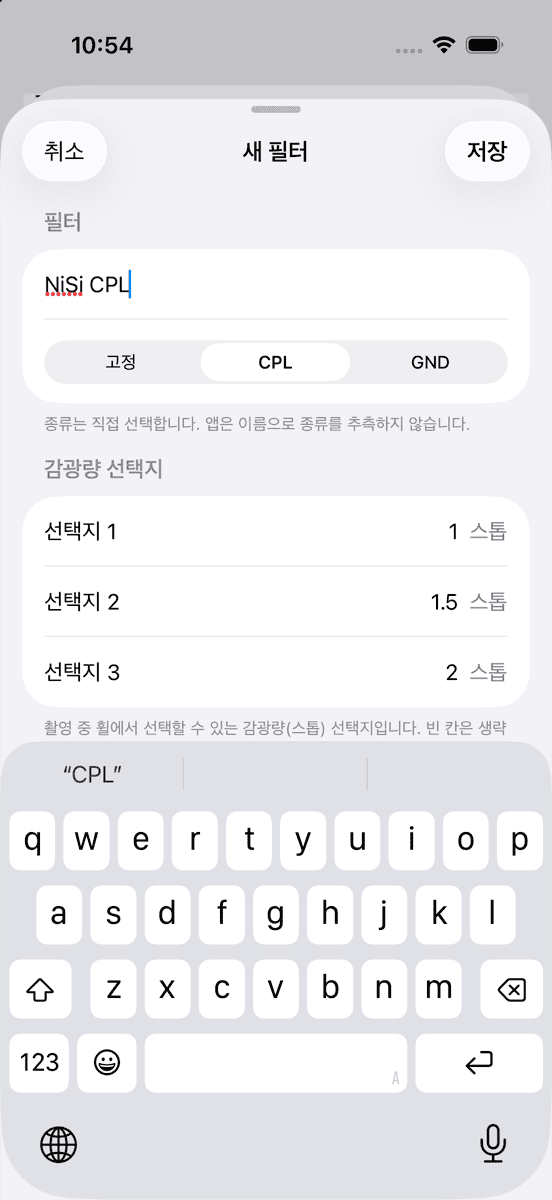
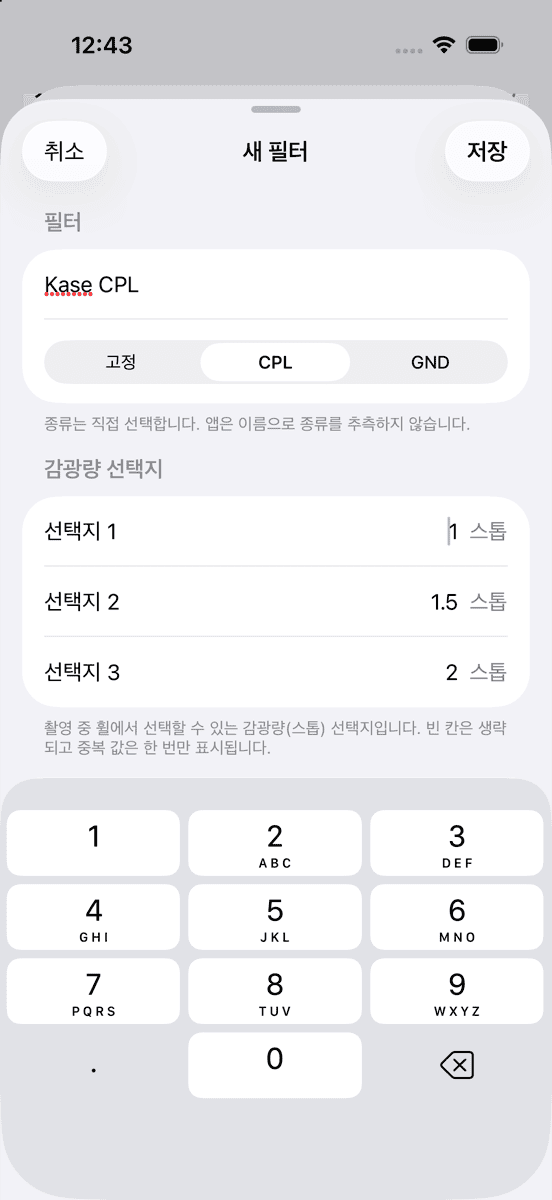
Reshoot the Android captures against the iOS seeds
The comparison review found several pairs that shared a situation but
not a seed, and two that captured the wrong moment entirely. Both
platforms were re-driven.

Android: eleven scenarios rebuilt on the same Filter Set, the same
items, the same base shutter and the same stack as the iOS references,
so the totals now read 16 and 19 rather than 10 and 13, the item names
match, and the 30-stop composition is the same 17 + 10 + 3 in the same
column order. iOS: the CPL frame retaken with a choice field focused
instead of the editor's autofocused name field, and the fallback frame
retaken inside the status region's linger window instead of after it.

The frames also carry the two corrections landed since the first pass.
The status region's leading content now starts at the card's leading
content inset — 63 px where it used to start at 430 — and `GND FULL`
renders complete at three wheels and at four, the narrowest column the
layout reaches.

Two things the reshoot itself turned up, both since fixed: the timer
card stated a 29.6-stop total as `29 2/3` while the shooting screen
said `29.6`, and the CPL choice field raises a decimal pad on both
platforms but Android's IME adds keys iOS's does not, which is the
platform's choice rather than the app's.

The Android frames come from two commits, because one of those fixes
landed mid-pass. The README says which frames came from which build
rather than implying one; the timer-card frames were reshot against the
[…]

diff --git a/docs/review-artifacts/PTIMER-221/android-ios/COMPARISON.md b/docs/review-artifacts/PTIMER-221/android-ios/COMPARISON.md
@@ -1,7 +1,7 @@
 # PTIMER-221 iOS / Android comparison matrix
 
 iOS `main@64565f73` on iPhone 17 (`9144ED16`), light, ko-KR.
-Android `feature/PTIMER-221-android@79b339c9` on `emulator-5554`
+Android `feature/PTIMER-221-android` at `496a4ec4` / `120bb559` on `emulator-5554`
 (Pixel_10, API 37), dark (hard-coded), ko-KR.
 Provenance and method: see [README.md](README.md).
 
@@ -15,7 +15,10 @@ Material or the platform requires, with no capability lost),
 seeded state and the same interaction phase on both platforms, and may be
 read as visual/transition parity evidence. A row marked `DIFFERENT SEED`
 compares the *behavior* only; its images must not be read as visual
-parity. Rows being reseeded are marked `RESEED PENDING`.
+parity. Every row that needed reseeding has been reseeded; nothing is
+left pending. Rows still marked `DIFFERENT SEED` are ones where the
+claim is behavioral and identical seeding would add nothing — they say
+so in place.
 
 | scenario | iOS observed behavior | Android observed behavior | contract ID | classification / action | evidence |
 | --- | --- | --- | --- | --- | --- |
@@ -25,27 +28,27 @@ parity. Rows being reseeded are marked `RESEED PENDING`.
 | 04 edit-mode controls | `완료` leading dismisses; `편집` ⇄ `편집 완료` trailing; `＋` last. Rows get a drag handle and a red delete. | Same three labels and roles. Rows get three explicit icon buttons, each 48x48 dp: `위로 이동`, `아래로 이동`, `삭제`. | FILTER-SET-001 | **Equivalent platform presentation.** Material reorder buttons replace the iOS drag handle; the capability is the same and the buttons are individually reachable by assistive technology. SAME SEED. | `04-edit-mode-controls/` |
 | 05 editor, Fixed ND1000 | `고정` kind, value `1000`, ND notation, conversion `= 10 스톱`. Notation segment inline right of the value. Presented as a sheet. | Same strings verbatim, including the conversion `= 10 스톱` and both footers. Notation segment is a separate full-width row under the value. Presented as a full screen. | FILTER-ITEM-002, FILTER-ITEM-003 | **Equivalent platform presentation.** ND1000 snaps to the ladder's exact 10 stops on both, not `log2(1000)`. SAME SEED. | `05-editor-fixed-nd1000/` |
 | 06 editor, GND OD 0.9 | Section retitled `전체 농도`; `= 3 스톱`; `계산 모드` section with the Record-only default. Second new item opened with ND remembered. | Identical section title, identical conversion, identical modes copy verbatim. Second new item opened with ND remembered (`android-b`). | FILTER-GND-001, FILTER-ITEM-007 | **Same.** SAME SEED. | `06-editor-gnd-od/` |
-| 07 editor, CPL choices | Three choice rows prefilled `1`, `1.5`, `2`; footer about blanks and duplicates. | Same prefills and the same footer verbatim. Each field carries desc `감광량 선택지 N`. | FILTER-CPL-001, FILTER-CPL-002 | **Same** for the visible content. The keypad claim is now carried by its own frames — the first pass captured the autofocused *name* field's QWERTY on both platforms, which evidenced nothing. RESEED PENDING for the focused-choice frame. | `07-editor-cpl/` |
-| 08 editor, CPL invalid | Red inline message under the offending row, inside the card: `0.1~9.9 범위에서 소수점 한 자리까지 입력하세요.`; 저장 greyed; field not outlined. | Red inline message in the same place: `소수 한 자리까지 0.1~9.9 사이 값을 사용하세요.`; 저장 greyed; the field's outline also turns error-red. | FILTER-CPL-002, FILTER-A11Y-003 | **Android action: align the wording.** Same rule, same placement, avoidable wording difference — the Android ko/en strings are being changed to iOS's. The extra error outline is Material and stays. SAME SEED. | `08-editor-cpl-invalid/` |
-| 09 set detail, three items | Rows `Big Stopper` / `고정 · ND1000 · 10 스톱`, `NiSi GND` / `GND · OD 0.9 · 3 스톱`, `NiSi CPL` / `CPL · 1 / 1.5 / 2 스톱`; registration order; disclosure chevron per row; `<` back. | Same subtitle grammar verbatim, registration order preserved — but the items are named `Big Stopper`, `Soft GND`, `CPL`. No chevron; X (`닫기`) instead of `<`. | FILTER-ITEM-001, FILTER-ITEM-004 | **Equivalent platform presentation** for the chevron and the dismiss glyph. DIFFERENT SEED — the item names differ, so these two images are not visual parity evidence. RESEED PENDING. | `09-set-detail-three-items/` |
+| 07 editor, CPL choices | Three choice rows prefilled `1`, `1.5`, `2`; footer about blanks and duplicates. Focusing a choice raises `.decimalPad`: digits, `.`, `⌫`, nothing else. Tapping the kind segment does not move focus. | Same prefills and the same footer verbatim; each field carries desc `감광량 선택지 N`. Focusing a choice raises a decimal pad too — the field declares `KeyboardType.Decimal` and the IME reports `inputType=0x2002` (`numberDecimal`) — but Gboard adds `,`, `−`, a space bar and a `✓` key. Tapping the kind segment does not move focus, as on iOS. | FILTER-CPL-001, FILTER-CPL-002, FILTER-CPL-003 | **Equivalent platform presentation.** The app asks for the same thing on both; the extra keys are the platform IME's, not the app's. Recorded consequence: those characters can reach the Android field, so Android's validation carries load that iOS's keyboard removes at source — and row 08 shows that validation working. SAME SEED. | `07-editor-cpl/` |
+| 08 editor, CPL invalid | Red inline message under the offending row, inside the card: `0.1~9.9 범위에서 소수점 한 자리까지 입력하세요.`; 저장 greyed; field not outlined. | Red inline message in the same place: `소수 한 자리까지 0.1~9.9 사이 값을 사용하세요.`; 저장 greyed; the field's outline also turns error-red. | FILTER-CPL-002, FILTER-A11Y-003 | **Android action taken (`496a4ec4`).** Same rule, same placement, avoidable wording difference: the English was already identical on both, so the Korean was changed to the iOS phrasing. The image still shows the pre-change wording; the string is `filter_cpl_field_error` in `values-ko/strings.xml`. The extra error outline is Material and stays. SAME SEED. | `08-editor-cpl-invalid/` |
+| 09 set detail, three items | Rows `Big Stopper` / `고정 · ND1000 · 10 스톱`, `NiSi GND` / `GND · OD 0.9 · 3 스톱`, `NiSi CPL` / `CPL · 1 / 1.5 / 2 스톱`; registration order; disclosure chevron per row; `<` back. | Same subtitle grammar verbatim, registration order preserved — but the items are named `Big Stopper`, `Soft GND`, `CPL`. No chevron; X (`닫기`) instead of `<`. | FILTER-ITEM-001, FILTER-ITEM-004 | **Equivalent platform presentation** for the chevron and the dismiss glyph. SAME SEED after reshoot: Android now shows the same three items, same order, same subtitles (`고정 · ND1000 · 10 스톱`, `GND · OD 0.9 · 3 스톱`, `CPL · 1 / 1.5 / 2 스톱`). | `09-set-detail-three-items/` |
 | 10 add enters settled order | New Empty wheel appended at the **end**: `[NiSi 10][Std 6][Std 0][NiSi EMPTY]`. It moved into the NiSi group only after it committed an item. | New Empty wheel at **index 2, contiguous with the NiSi group, in the frame immediately after the add**: `필터 1/4 NiSi(10)`, `2/4 NiSi(EMPTY)`, `3/4 Standard(6)`, `4/4 Standard(0)`; total unchanged. | FILTER-STACK-005 | **iOS defect.** Adjudicated by the spec owner: a Plus add is accepted only with no moving wheel or pending commit, so the resulting stack must already satisfy source contiguity and subtotal order. Android is correct; iOS append-until-next-settle goes to a separate iOS Code follow-up. SAME SEED. | `10-add-immediate-order/` |
 | 11 idle cleanup of an Empty wheel | Unmounted Empty Filter Set wheel silently removed after ~4 s. | Same, and a `Standard 0` wheel is cleanable on the same interval — so the literal `[NiSi 10][Std 6][Std 0]` stack decays to two wheels. | FILTER-STACK-006 | **Same.** FILTER-STACK-006 puts Standard 0 and Filter Set Empty under the same idle rule, so both platforms shedding them is the contract; the iOS frame simply caught the stack before its timer fired. SAME SEED. | `11-empty-wheel-idle-cleanup/` |
 | 12 order after a committed change | The wheel added at the end animated into its source group once it committed a value. | No post-commit move was needed — the wheel was already in its group. Reordering itself was observed separately: at NiSi 10 / Standard 6 the row read `[NiSi][Standard]`, and at NiSi 2 / Standard 10 it read `[Standard][NiSi]`, with the leading summary flipping to match. | FILTER-STACK-005 | **Consequence of scenario 10**, same classification. Both platforms end in the same settled order; only the moment of reordering differs. DIFFERENT SEED. | `12-order-after-change/` |
-| 13 sighted fallback | Commits the nearest selectable row the gesture actually traversed, not the previous selection. Mid-drag the status previews the unavailable candidate including its total (`합계 26 스톱`). | Identical: mid-drag leading `Big Stopper · ND1000 · 10 스톱` with `합계 26 스톱`, then on release it committed the traversed GND row, header back to `● GND REC`, total `합계 16 스톱`, no rejection raised. | FILTER-STACK-004 | **Same behavior.** The committed iOS frame was taken after the status linger expired, so it shows the idle summary while Android shows the settled detail — not comparable as images. RESEED PENDING (iOS retake within the linger window). | `13-fallback-commit/` |
+| 13 sighted fallback | Commits the nearest selectable row the gesture actually traversed. ~0.9 s after release the status region still shows the **candidate** the gesture settled on — `Big Stopper · ND1000 · 10 스톱` / `합계 24 스톱` — while the wheel beneath it already reads `GND REC` and the committed total is 14. The idle summary appears after the 1.5 s linger. | Same fallback: the traversed GND row is committed. But the status flips to the **committed** row the moment the fallback lands (+718 ms) — `Soft GND · OD 0.9 · 기록만 · 0 스톱` / `합계 14 스톱` — and that is what lingers. The candidate detail exists only while the wheel is still physically moving (finger down, and ~100 ms of settle). | FILTER-STACK-004, FILTER-STACK-007 | **Unresolved — needs a disposition.** FILTER-STACK-007 says the status text and the centered row "shall not mix a passing candidate with the previously committed candidate"; once the fallback has landed and the wheel shows `GND REC`, iOS's frozen `Big Stopper` detail appears to be exactly that mix, which would make Android correct and iOS defective. The counter-reading is that the frozen window is still part of "inertial settling". Not changing Android either way. SAME SEED, timestamped burst on both. | `13-fallback-commit/` |
 | 14 refusal with no fallback | Wheel stays put; leading turns orange with `이 카메라에 이미 장착됨`; trailing total unchanged. | Same behavior and the **same string verbatim**; wheel snapped back to `GND REC`; total unchanged. Colour is the Material error role rather than orange. | FILTER-STACK-004 | **Equivalent platform presentation** for the colour role. The appearances differ (iOS light, Android dark), so no hue comparison is claimed. SAME SEED. | `14-rejection-no-fallback/` |
-| 15 status region, idle | One row. Leading `● NiSi kit ×2 · Standard` at x 27.67 pt, trailing `합계 16 스톱` ending at x 374.00 pt — both on the **card content insets** (card edges are 16.0 / 385.67 pt), on a shared first-text baseline. | One row, same y-band, Total's right edge exactly on the trailing content inset (1017 px = 387.4 dp). **Leading starts at 430 px = 163.8 dp — the left edge of the first filter wheel, not the card's 24.0 dp leading inset**, because `FilterStatusRegion` fills only the ND subcolumn. | FILTER-STACK-008 | **Android defect, correction in progress.** The region is being given the full card width below the complete Base Shutter + wheel row, with the layout tests strengthened to compare both nodes against the card bounds and to assert the wheels do not move. RESEED PENDING (recapture after the fix). | `15-status-idle/` |
-| 16 status region, moving | Leading `Big Stopper · ND1000 · 10 스톱`, trailing `합계 16 스톱`; same extents as idle; the held detail switches without the idle crossfade. | Leading identical; Total `합계 26 스톱`. Width behavior proven: with `합계 16.6 스톱` the Total grew and the leading shrank; only the leading yields. | FILTER-STACK-007, FILTER-STACK-008 | **Same** for the yield rule. Same Android alignment defect as row 15. DIFFERENT SEED — the two frames preview different candidates (16 vs 26 stops). RESEED PENDING. | `16-status-moving/` |
-| 17 status region, rejection | Orange leading reason, unchanged Total, one row, nothing reflows. | Same string, same single row, same unchanged Total; Material error colour. | FILTER-STACK-004, FILTER-STACK-008 | Same as rows 14 and 15. RESEED PENDING (alignment fix). | `17-status-rejection/` |
-| 18 / 19 GND mode does not move the wheel | `● GND REC` ⇄ `● GND FULL` at the same position; total 16 → 19. | Same rule: the wheel stayed at identical bounds in both modes, total 10 → 13. **But at three wheels the header renders `● GND` — `FULL` is clipped away with no ellipsis**, while `GND REC` still fits. | FILTER-STACK-005, **FILTER-STACK-007** | **Android defect, correction in progress.** FILTER-STACK-007 requires the persistent label to communicate `REC` or `FULL`; silent clipping removes the only cue distinguishing the two modes exactly when the column narrows. The no-move rule itself is correct on both. DIFFERENT SEED (totals 16/19 vs 10/13). RESEED PENDING. | `18-gnd-record-only/`, `19-gnd-full/` |
+| 15 status region, idle | One row. Leading `● NiSi kit ×2 · Standard` at x 27.67 pt, trailing `합계 16 스톱` ending at x 374.00 pt — both on the **card content insets** (card edges are 16.0 / 385.67 pt), on a shared first-text baseline. | One row, same y-band, Total's right edge exactly on the trailing content inset (1017 px = 387.4 dp). **Leading starts at 430 px = 163.8 dp — the left edge of the first filter wheel, not the card's 24.0 dp leading inset**, because `FilterStatusRegion` fills only the ND subcolumn. | FILTER-STACK-008 | **Android defect, FIXED in `1ae2fd2c`.** The region now spans the card's content width below the complete Base Shutter + wheel row. Remeasured: leading **63 px = 24.00 dp**, the card's leading content inset, and Total still **1017 px = 387.43 dp**, its trailing inset — a 139.81 dp gain of leading width, in every status state. SAME SEED (total 16 on both). | `15-status-idle/` |
+| 16 status region, moving | Leading `Big Stopper · ND1000 · 10 스톱`, trailing `합계 16 스톱`; same extents as idle; the held detail switches without the idle crossfade. | Leading identical; Total `합계 26 스톱`. Width behavior proven: with `합계 16.6 스톱` the Total grew and the leading shrank; only the leading yields. | FILTER-STACK-007, FILTER-STACK-008 | **Same.** SAME SEED after reshoot: Android now holds the same candidate (its own committed row), so its total also stays `합계 16 스톱`, and its leading edge sits on the card inset like iOS's. | `16-status-moving/` |
+| 17 status region, rejection | Orange leading reason, unchanged Total, one row, nothing reflows. | Same string, same single row, same unchanged Total; Material error colour. | FILTER-STACK-004, FILTER-STACK-008 | Same as rows 14 and 15; reshot after the alignment fix, leading at 24.00 dp, total `합계 16 스톱` unchanged. SAME SEED. | `17-status-rejection/` |
+| 18 / 19 GND mode does not move the wheel | `● GND REC` ⇄ `● GND FULL` at the same position; total 16 → 19. | Same rule: the wheel stayed at identical bounds in both modes, total 10 → 13. **But at three wheels the header renders `● GND` — `FULL` is clipped away with no ellipsis**, while `GND REC` still fits. | FILTER-STACK-005, **FILTER-STACK-007** | **Android defect, FIXED in `23761f8e`.** The label was wrapping at the space in `GND FULL` and keeping only the first line. It now shrinks to fit instead, and renders complete at three wheels (61.7 dp column) and at four (52.95 dp, the narrowest the layout reaches — `19-gnd-full/android-b.png`). The no-move rule was always correct on both: the wheel's bounds are identical across the mode switch. SAME SEED, totals now 16/19 on both. | `18-gnd-record-only/`, `19-gnd-full/` |
 | 20 Empty vs Standard zero | Both read `0`. Standard: header `ND`, blue rail, no source dot. Filter Set: header `● EMPTY`, cyan dot, neutral-grey rail. | Same pattern; the source dot is the set's own colour (purple here). | FILTER-STACK-007 | **Same.** The dot carries the set colour by contract, so a different set colour is not a difference. SAME SEED. | `20-empty-vs-standard-zero/` |
-| 21 at 30 stops, source with no usable row | Total `합계 30 스톱 · 최대`, Plus dimmed, add refused with `남은 예산에 맞는 Standard 값이 없음`, remembered source unchanged. | Total `합계 30 스톱 · 최대` verbatim; the refusal string verbatim identical; no wheel created; total unchanged; remembered source unchanged. The Plus is not dimmed — its tint tracks the source, and the browse simply never settles on Standard. | FILTER-PLUS-005 | **Equivalent platform presentation** for how the refusal is surfaced; the contract outcome (refuse, with a reason, without moving the remembered source) is identical. DIFFERENT SEED — the 30-stop compositions differ. RESEED PENDING. | `21-cap-no-usable-row/` |
+| 21 at 30 stops, source with no usable row | Total `합계 30 스톱 · 최대`, Plus dimmed, add refused with `남은 예산에 맞는 Standard 값이 없음`, remembered source unchanged. | Total `합계 30 스톱 · 최대` verbatim; the refusal string verbatim identical; no wheel created; total unchanged; remembered source unchanged. The Plus is not dimmed — its tint tracks the source, and the browse simply never settles on Standard. | FILTER-PLUS-005 | **Equivalent platform presentation** for how the refusal is surfaced; the contract outcome — refuse, with a reason, without moving the remembered source — is identical, and the reason string is verbatim the same. SAME SEED after reshoot: both are 17 + 10 + 3 = 30 in the same column order. | `21-cap-no-usable-row/` |
 | 22 at 30 stops, Record-only still addable | **Not reached.** iOS refuses every add once the total is 30, and the state could not be built inside the 4 s idle interval. | **Allowed.** At `합계 30 스톱 · 최대` with two wheels and an unmounted `Soft GND`, `＋` created a third `● EMPTY` wheel: present at +0.3 s and +3.0 s, gone at +4.5 s — removed by the ordinary idle interval, not immediately. Total unchanged throughout. | FILTER-PLUS-005, FILTER-STACK-006 | **Android correct.** FILTER-PLUS-005 requires a Record-only item to stay addable at a 30-stop total, and FILTER-STACK-006 gives the resulting Empty wheel the normal idle interval. **Android-only evidence — not paired parity.** If iOS refuses this exact case it is a second iOS defect; the iOS pass could not reach the state to confirm. | `22-cap-record-only-addable/` |
 | 23 camera switch | Camera 2 has its own stack and its own remembered Plus source; swiping back restores camera 1 exactly. | Camera 2 opened Standard-only and its `＋` added Standard while camera 1 remembered NiSi; swiping back restored camera 1 byte-identical. | FILTER-PERSIST-002, FILTER-PLUS-004 | **Same.** DIFFERENT SEED (different stacks) but the behavior claim is per-camera independence, which both show. | `23-camera-switch/` |
 | 24 relaunch | Identical stack, order, GND mode, total, Plus source. Nothing re-sorted or reset. | Same after `am force-stop` and relaunch. | FILTER-PERSIST-001, FILTER-PERSIST-002 | **Same.** DIFFERENT SEED. | `24-after-relaunch/` |
-| 25 timer reference | Primary `기본 1/30s · 29.6 스톱`; secondary `Standard 16.6 스톱 · NiSi kit: Big Stopper ND1000 + NiSi GND OD 0.9 (전체 값 적용)`. Sheet close control top-right. | Secondary grouped the same way: `NiSi: Big Stopper ND1000 + Soft GND OD 0.9 (기록만)`. Primary `기본 5s · 10 stops` — **the noun `stops` stays English inside a Korean line.** Close control top-left. | FILTER-PERSIST-003, FILTER-A11Y-003 | Reference-line grammar is **the same**; close-control side is **equivalent platform presentation** (Material puts dismissal leading). The untranslated `stops` comes from `TimerBasisPresenter` using a locale-independent formatter — **provenance under investigation; if it predates this branch it is reported, not fixed here.** DIFFERENT SEED. RESEED PENDING. | `25-timer-reference/` |
-| 26 rename then delete the set behind a running timer | Camera drops the wheels, Plus falls back to Standard, and the timer entry is byte-identical including the **pre-rename** set name. Delete dialog names the targeted set. | Identical: the live stack and status followed the rename, while the running timer still read `NiSi: Big Stopper ND1000 + Soft GND OD 0.9 (기록만)`; after delete the stack collapsed to Standard and the timer entry was still byte-identical, and stayed so after cancelling into 기록. Dialog body identical except the camera name. | FILTER-PERSIST-003 | **Same — the contract's immutability guarantee holds on both.** The dialog body leaks the default camera name as the English `Camera 1` in a Korean build (iOS `카메라 1`); provenance under investigation. DIFFERENT SEED. RESEED PENDING. | `26-timer-reference-after-delete/` |
+| 25 timer reference | Primary `기본 1/30s · 29.6 스톱`; secondary `Standard 16.6 스톱 · NiSi kit: Big Stopper ND1000 + NiSi GND OD 0.9 (전체 값 적용)`. Sheet close control top-right. | Secondary grouped the same way: `NiSi: Big Stopper ND1000 + Soft GND OD 0.9 (기록만)`. Primary `기본 5s · 10 stops` — **the noun `stops` stays English inside a Korean line.** Close control top-left. | FILTER-PERSIST-003, FILTER-A11Y-003 | **Two Android defects found here, both FIXED.** The English `stops` in a Korean line came from a core formatter with no resources (`69702bf4`). Then the total itself read `기본 1/30 · 29 2/3 스톱` — the ladder's reserved third-stop path misstating 29.6 — while Android's own shooting screen said `합계 29.6 스톱`; a mixed stack's canonical total is a plain decimal (`120bb559`). Both surfaces now read `29.6 스톱`, and so does the timer card in OD and ND notation, since a mixed stack's total does not follow the global notation. Remaining: iOS writes the base shutter as `1/30s`, Android as `1/30`, and Android truncates the reference line to one line where iOS wraps to two — **equivalent platform presentation** and **unresolved** respectively. Close-control side is Material. SAME SEED. | `25-timer-reference/` |
+| 26 rename then delete the set behind a running timer | Camera drops the wheels, Plus falls back to Standard, and the timer entry is byte-identical including the **pre-rename** set name. Delete dialog names the targeted set. | Identical: the live stack and status followed the rename, while the running timer still read `NiSi: Big Stopper ND1000 + Soft GND OD 0.9 (기록만)`; after delete the stack collapsed to Standard and the timer entry was still byte-identical, and stayed so after cancelling into 기록. Dialog body identical except the camera name. | FILTER-PERSIST-003 | **Same — the contract's immutability guarantee holds on both.** SAME SEED after reshoot, and all four frames now come from one seeding and one build, so the total reads `29.6` unchanged across rename and delete: nothing in the sequence suggests either operation touched it. The dialog body still leaks the default camera name as the English `Camera 1` in a Korean build (iOS `카메라 1`) — **pre-existing, not this branch**: `CameraSlotId.defaultDisplayName` hardcodes it at `4914d315` (2026-06-25), an ancestor of the baseline, and the core module has no resources. What is new is the exposure: a PTIMER-221 string interpolates that English name into Korean prose. Reported, not fixed here. | `26-timer-reference-after-delete/` |
 | 27 wheel accessibility | One adjustable element per wheel. Stable label `필터 %lld/%lld, %@`; separate value `<item>, <type/mode>, <contribution>, 합계 <T>`. No app-authored hint. | Same split: `contentDescription` = `필터 1/2, NiSi`; `stateDescription` = `<item>, <type[, mode]>, <N 스톱>[, <refusal>], 합계 <T> 스톱`; role adjustable (`ProgressBarRangeInfo`). | FILTER-A11Y-001 | **Same structurally.** Neither platform's value was *heard* — iOS read from source, Android's `stateDescription` is not serialised by `uiautomator` and was read from source. Stated as a limitation, not as verified speech. | `27-a11y-wheel/` |
-| 28 status region accessibility | Leading text and Total are two separate elements, so Total is reachable directly rather than behind the summary. | Same: two sibling nodes, the leading one carrying the **complete untruncated** text as its content description while the visible text truncates. | FILTER-A11Y-005, FILTER-STACK-008 | **Same.** Affected by the row-15 alignment fix. RESEED PENDING. | `28-a11y-status/` |
+| 28 status region accessibility | Leading text and Total are two separate elements, so Total is reachable directly rather than behind the summary. | Same: two sibling nodes, the leading one carrying the **complete untruncated** text as its content description while the visible text truncates. | FILTER-A11Y-005, FILTER-STACK-008 | **Same.** Reshot after the alignment fix: two sibling nodes at 63-841 px and 857-1017 px, the leading one carrying the complete untruncated text as its content description while the visible text truncates. SAME SEED. | `28-a11y-status/` |
 
 ## Differences not tied to one scenario
 
@@ -53,4 +56,5 @@ parity. Rows being reseeded are marked `RESEED PENDING`.
 | --- | --- | --- |
 | Android renders dark unconditionally (`PTimerTheme(darkTheme = true, dynamicColor = false)` in `MainActivity`), and the system night-mode setting does not change it. | — | Out of PTIMER-221 scope; recorded so that no colour row in this matrix is read as a measured hue comparison. |
 | Android wheel drags are fling-sensitive: swipes shorter than ~700 ms over one row height frequently snap back or overshoot. | FILTER-STACK-004 | **Unresolved** — observed with injected input, which is not a faithful model of a finger. Needs a human pass on a device before it can be called a defect. |
-| The Android colour swatches and the management entry appeared to lose their accessibility state in a `uiautomator` dump. | FILTER-A11Y-001, FILTER-A11Y-002 | Almost certainly an artifact of `uiautomator` dumping Compose's unmerged semantics tree — the source sets both. Being verified with merged-tree instrumented assertions; only a failing assertion will produce a source change. |
+| The Android colour swatches and the management entry appeared to lose their accessibility state in a `uiautomator` dump. | FILTER-A11Y-001, FILTER-A11Y-002 | **Artifact, confirmed.** `uiautomator` dumps Compose's unmerged semantics tree. On the merged tree one node carries the management description, holds the click action, and is 48 x 48 dp; the selected swatch reports `Selected == true` and the others `false`. Asserted in `FilterMergedSemanticsTest` (`d3695e2c`); no source change was needed. |
+| The Android timer card renders durations as `36m 24s` where iOS renders `36:25`, from the same `2185s`. | — | Pre-existing timer formatting, outside PTIMER-221. Recorded only. |

diff --git a/docs/review-artifacts/PTIMER-221/android-ios/README.md b/docs/review-artifacts/PTIMER-221/android-ios/README.md
@@ -20,13 +20,47 @@ evidence at all.
 
 | | iOS | Android |
 | --- | --- | --- |
-| build | `main` at `64565f7394fb6d3b00be3655e1b6fb84851c5967` (the merge of the iOS PTIMER-221 PR; also the baseline this Code PR is rebased onto) | `feature/PTIMER-221-android` at `79b339c9` |
+| build | `main` at `64565f7394fb6d3b00be3655e1b6fb84851c5967` (the merge of the iOS PTIMER-221 PR; also the baseline this Code PR is rebased onto) | `feature/PTIMER-221-android` — see the per-frame build table below |
 | device | iPhone 17 simulator, UDID `9144ED16-488D-41F0-B736-3E0564BC6874` | `emulator-5554`, Pixel_10 AVD, API 37 |
 | screen | 402 x 874 pt, 3x (1206 x 2622 px) | 411.43 x 923.43 dp, density 420 (2.625 px/dp, 1080 x 2424 px) |
 | appearance | light | dark — the app hard-codes `PTimerTheme(darkTheme = true, dynamicColor = false)`, and `cmd uimode night no` does not change it |
 | locale | ko-KR | ko-KR, set per-app with `cmd locale set-app-locales com.sangwook.ptimer.debug --locales ko-KR` |
 | bundle / package | `com.sangwook.PTimer.dev` | `com.sangwook.ptimer.debug` |
-| captured | 2026-09-23 22:43-23:32 KST | 2026-09-23 23:39 - 2026-09-24 00:23 KST |
+| captured | 2026-09-23 22:43-23:32 KST, plus two retakes 2026-09-24 00:39-01:16 | 2026-09-23 23:39 - 2026-09-24 00:23 KST, re-driven to the iOS seeds 2026-09-24 01:08-02:05 |
+
+### Android frames come from two commits
+
+The Android set was reshot against the iOS seeds after the layout and
+localization corrections landed, and one further correction landed
+mid-pass, so the frames are not all from one build. They are labelled
+rather than averaged:
+
+| build | frames |
+| --- | --- |
+| `496a4ec4` | `09`, `13`, `13-b`, `15`, `16`, `17`, `18`, `19`, `19-b`, `21`, `28` |
+| `120bb559` | `07`, `25`, `26`, `26-b`, `26-c`, `26-d` |
+| `79b339c9` | every scenario not listed above, unchanged from the first pass |
+
+`120bb559` changes only how a mixed stack's total is formatted on the
+timer card, which is why exactly the timer-card frames were reshot
+against it and the rest stay valid. `07` was additionally verified on
+`496a4ec4` before that commit landed — same keypad, same input type,
+same focus behaviour — so it is cross-checked on both.
+
+Superseded frames are not in the working tree but are not lost: the
+first-pass images are in this repository's history, at the commit that
+added this directory. The ones replaced were replaced because they
+showed the wrong thing — `07` captured the item editor's autofocused
+name field instead of a focused choice field, `13` was taken after the
+status region's linger had expired, and the rest were driven to
+different set names, totals and stack compositions than iOS.
+
+### One incidental difference in the scenario 26 frames
+
+Their shot-sequence badge reads `2` where the iOS references read `1`.
+The Android app's data was wiped by a reinstall between passes, so that
+camera's counter had already advanced. It is consistent across all four
+frames of the sequence and is unrelated to what they demonstrate.
 
 Because the two platforms render in different appearances, **no colour
 comparison in the matrix is a measured hue match** — colour differences
@@ -52,7 +86,7 @@ dump` node `bounds` on Android.
 | `04-edit-mode-controls` | One Filter Set in the list, at rest and in edit mode (`-b`). |
 | `05-editor-fixed-nd1000` | New Fixed item, value `1000`, ND notation; live conversion line. |
 | `06-editor-gnd-od` | New GND item, OD `0.9`; calculation-modes section. Android `-b`: the next new item opening with the remembered notation (FILTER-ITEM-007). |
-| `07-editor-cpl` | New CPL item with choices `1`, `1.5`, `2`. Note: the first-pass frames show the QWERTY keyboard of the autofocused *name* field on both platforms, so they do not evidence the decimal keypad; that claim now rests on its own recaptured frames. |
+| `07-editor-cpl` | New CPL item with choices `1`, `1.5`, `2`, with **the first choice field focused** so the keyboard on screen is the one that field raises. The first-pass frames captured the autofocused *name* field's QWERTY on both platforms and evidenced nothing; both were reshot. |
 | `08-editor-cpl-invalid` | `2.341` typed into a CPL choice; inline validation and disabled save. |
 | `09-set-detail-three-items` | One set holding a Fixed, a GND and a CPL item, in registration order. |
 | `10-add-immediate-order` | A settled mixed stack, then one Plus add of a source whose group already leads. The frame is taken immediately after the add with nothing else touched. iOS `-b` is mid-animation, iOS `-c` and Android `-b` are the discriminating three-then-four-wheel case. |
